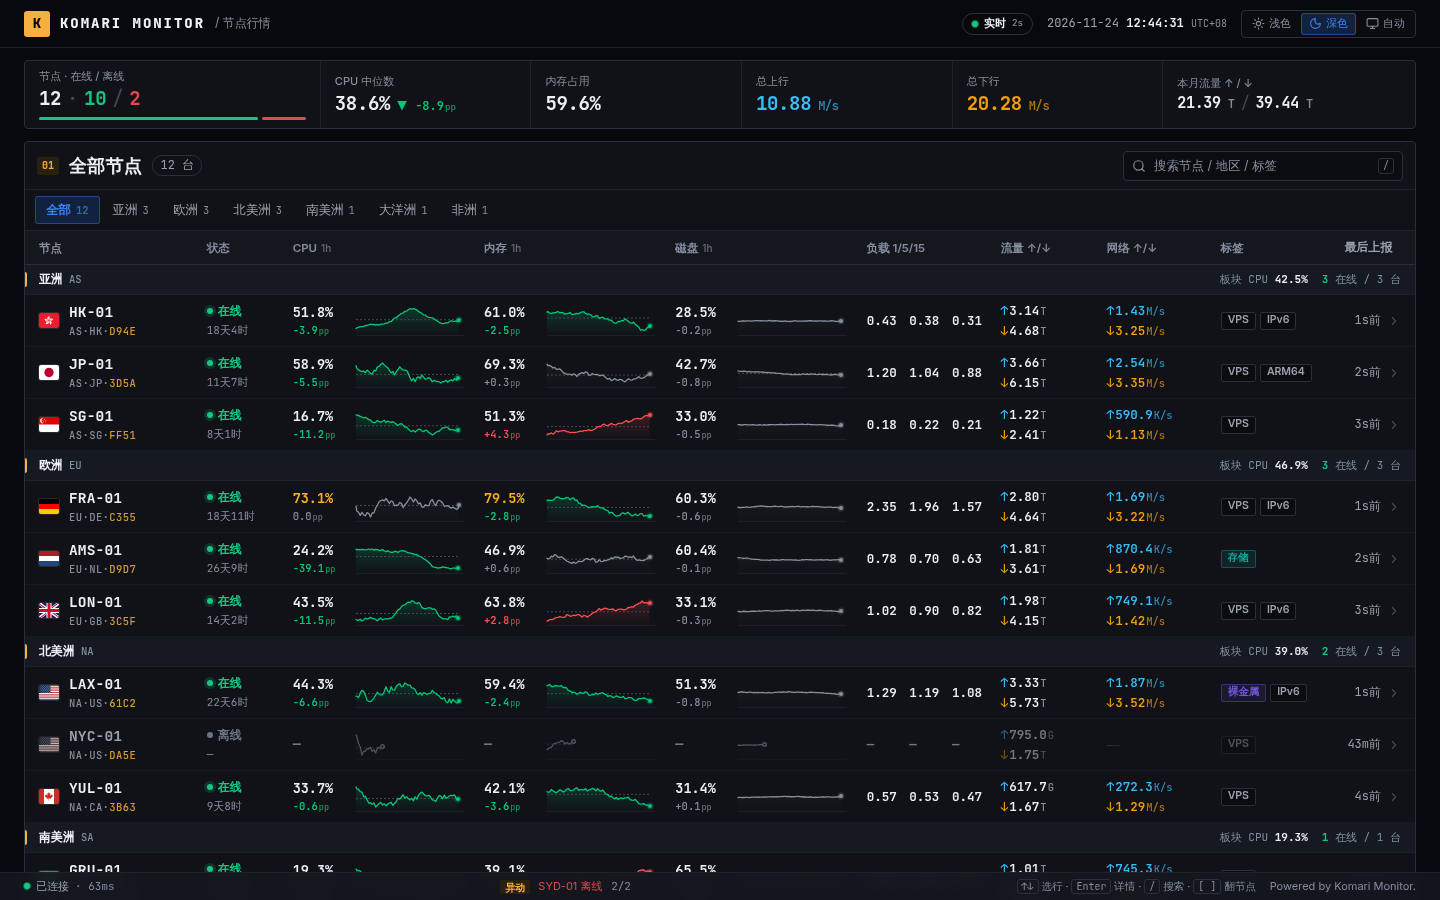
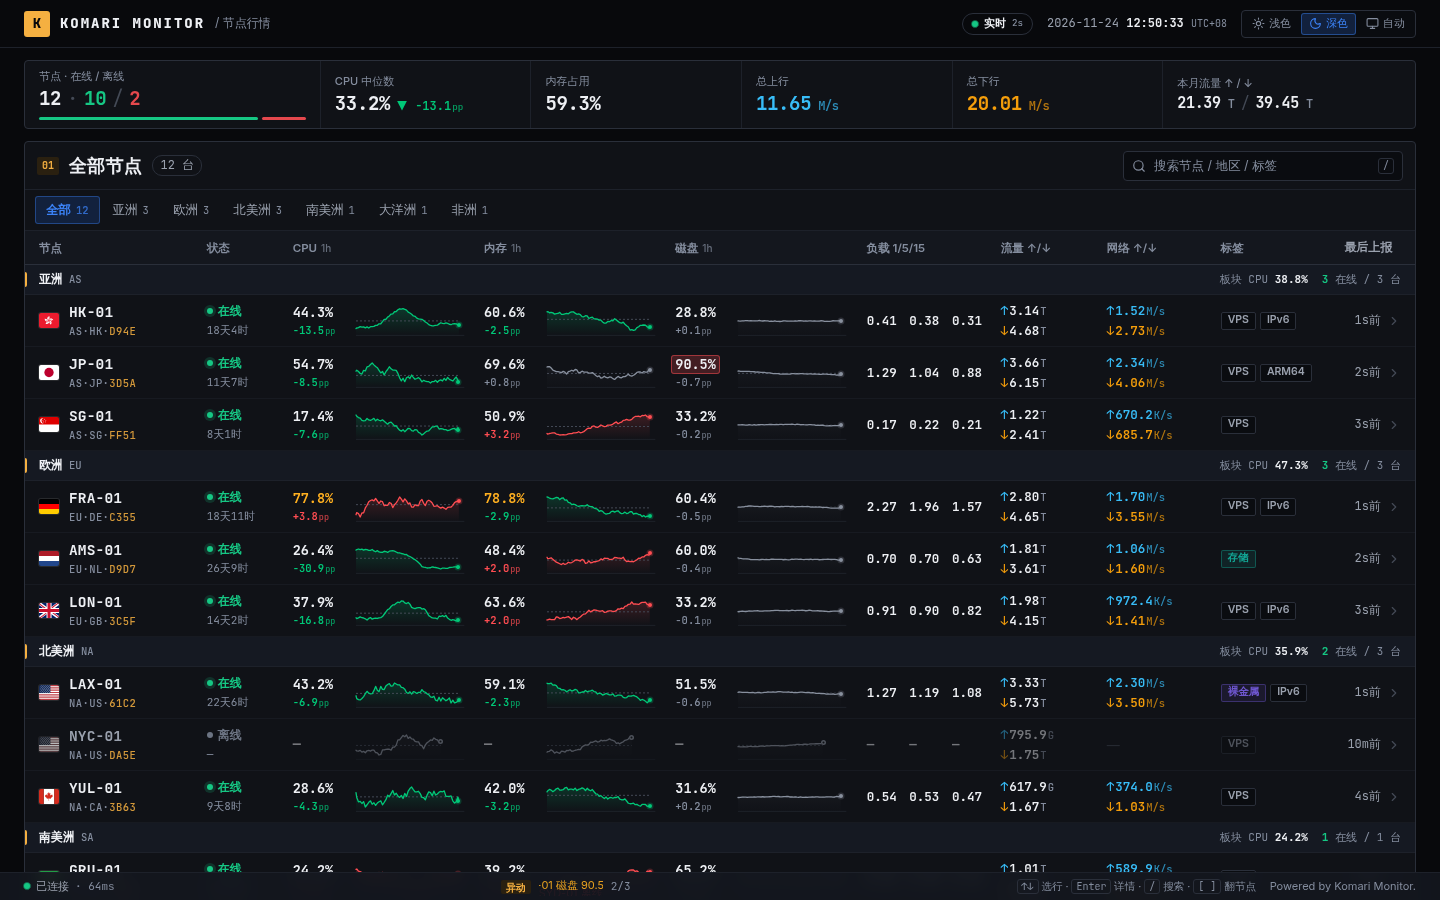
chore: mock a nearly full disk to cover the high-load badge; refresh preview

diff --git a/mock/fixture.ts b/mock/fixture.ts
@@ -32,7 +32,7 @@ interface Spec {
 
 const specs: Spec[] = [
   { name: 'HK-01', flag: '🇭🇰', cpu: 38, ram: 62, disk: 27, up: 1.62, down: 2.41, age: 3, uptime: 18 * 86400 + 4 * 3600, tags: 'VPS;IPv6', ramGiB: 8, diskGiB: 100, cores: 4, cpuName: 'AMD EPYC 7B13', arch: 'amd64', virt: 'kvm', load: [0.42, 0.38, 0.31], bill: [8.4, '$', 30, '2026-12-13T03:00:00Z', true], monthly: [92.4, 168.1], group: '亚太', remark: '香港 CN2 GIA 线路' },
-  { name: 'JP-01', flag: '🇯🇵', cpu: 56, ram: 72, disk: 43, up: 1.89, down: 3.16, age: 5, uptime: 11 * 86400 + 7 * 3600, tags: 'VPS;ARM64', ramGiB: 12, diskGiB: 120, cores: 8, cpuName: 'Ampere Altra', arch: 'arm64', virt: 'kvm', load: [1.26, 1.04, 0.88], bill: [42, '$', 365, '2027-03-18T00:00:00Z', false], monthly: [61.2, 118.4], group: '亚太' },
+  { name: 'JP-01', flag: '🇯🇵', cpu: 56, ram: 72, disk: 91, up: 1.89, down: 3.16, age: 5, uptime: 11 * 86400 + 7 * 3600, tags: 'VPS;ARM64', ramGiB: 12, diskGiB: 120, cores: 8, cpuName: 'Ampere Altra', arch: 'arm64', virt: 'kvm', load: [1.26, 1.04, 0.88], bill: [42, '$', 365, '2027-03-18T00:00:00Z', false], monthly: [61.2, 118.4], group: '亚太' },
   { name: 'SG-01', flag: '🇸🇬', cpu: 24, ram: 48, disk: 35, up: 0.63, down: 1.24, age: 4, uptime: 8 * 86400 + 3600, tags: 'VPS', ramGiB: 4, diskGiB: 140, cores: 2, cpuName: 'Intel Xeon Platinum 8272CL', arch: 'amd64', virt: 'kvm', load: [0.18, 0.22, 0.21], monthly: [31.1, 66.2], group: '亚太' },
   { name: 'SYD-01', flag: '🇦🇺', cpu: null, ram: 41, disk: 52, up: 0.3, down: 0.6, age: 12 * 60, uptime: 0, tags: '备份<amber>;IPv6', ramGiB: 8, diskGiB: 160, cores: 4, cpuName: 'Intel Xeon E5-2680 v4', arch: 'amd64', virt: 'kvm', load: [0, 0, 0], group: '亚太' },
   { name: 'FRA-01', flag: '🇩🇪', cpu: 67, ram: 82, disk: 59, up: 1.44, down: 2.39, age: 4, uptime: 18 * 86400 + 11 * 3600, tags: 'VPS;IPv6', ramGiB: 12, diskGiB: 180, cores: 8, cpuName: 'AMD EPYC 7443P', arch: 'amd64', virt: 'kvm', load: [2.31, 1.96, 1.57], bill: [29.9, '€', 365, '2027-02-18T00:00:00Z', true], monthly: [286.3, 419.9], group: '欧洲', remark: '欧洲公开监控节点' },
